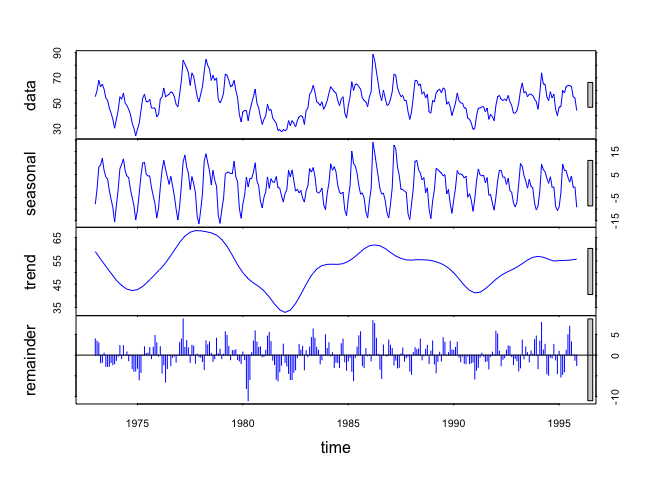
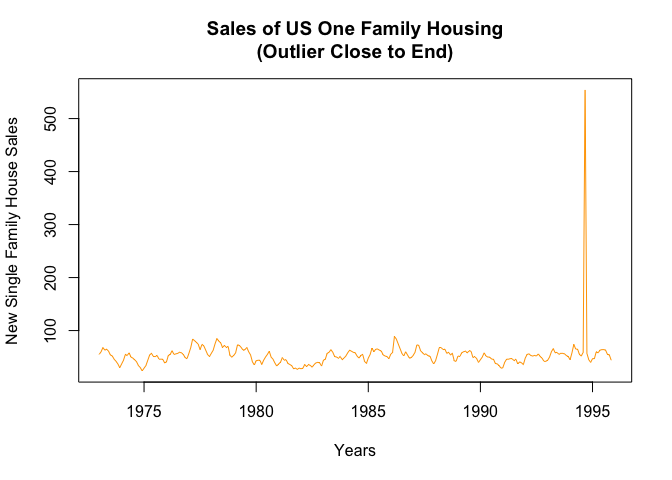
merge code

diff --git a/DoingDataScience/Unit 11 Assignment/Report.md b/DoingDataScience/Unit 11 Assignment/Report.md
@@ -9,7 +9,8 @@ Angela Horacek, James Gage, Trace Smith
 
 
 
-a.) Plot the time series. Can you identify seasonal fluctuations and/or a trend? 
+**a.) Plot the time series. Can you identify seasonal fluctuations and/or a trend?**
+- There appears to be a seasonality to the data. The data seem to be  oscillating up and down corresponding to the calender year.In addition, a trend in the form of a sinusodal wave appears with a trough approximately every 9 years. 
 
 
 ```r
@@ -20,7 +21,7 @@ plot(hsales, col="red", lwd=1.5, ylab = "Monthly Sales", xlab="Date",
 
 ![](Report_files/figure-html/unnamed-chunk-2-1.png)<!-- -->
 
-b.) Use a classical decomposition to calculate the trend-cycle and seasonal indices. 
+**b.) Use a classical decomposition to calculate the trend-cycle and seasonal indices.** 
 
 
 ```r
@@ -32,28 +33,41 @@ data <- decompose(hsales)
 
 ```r
 # Plot the estimated trend, seasonal, and irregular components
-plot(data, col="orange")
+plot(data, col="blue")
 ```
 
 ![](Report_files/figure-html/unnamed-chunk-4-1.png)<!-- -->
 
-c.) Do the results support the graphical interpretation from part (a)? 
+**c.) Do the results support the graphical interpretation from part (a)?**
 
+- The results from the decomposition graphics indicate there is not only a seasonal component but also a trend component bolstering the interpretation of the original graph.
 
-d) Compute and plot the seasonally adjusted data. 
+**d) Compute and plot the seasonally adjusted data.** 
+
+- Decompose a time series into seasonal, trend and irregular components using:
 
 
 ```r
-#Plot the seasonlly adjusted data:
-adj_sales <- seasadj(data)
-plot(adj_sales, col="blue", lwd=1.5, ylab = "Monthly Sales", xlab="Date",
-     main="Monthly Sales of \n 1-Family Houses in USA since 1973")
+#Returns seasonally adjusted data constructed by removing the seasonal component.
+fit <- stl(hsales, s.window=5)
+plot(fit, main="Seasonal Adjusted Data",col="blue")
 ```
 
 ![](Report_files/figure-html/unnamed-chunk-5-1.png)<!-- -->
 
-e) Change one observation to be an outlier (e.g., add 500 to one observation), and recompute the seasonally adjusted data. What is the effect of the outlier? 
+- Plot of hsales with the seasonal adjusted data (red line):
 
+```r
+plot(hsales, col="gray",lwd=2, main="Sales of US Single Family Housing\nwith Seasonal Adjusted Data (red line)", ylab="New Single Family House Sales", xlab="Years")
+
+lines(fit$time.series[,2],col="red",ylab="Trend",lwd=2.5)
+```
+
+![](Report_files/figure-html/unnamed-chunk-6-1.png)<!-- -->
+
+**e) Change one observation to be an outlier (e.g., add 500 to one observation), and recompute the seasonally adjusted data. What is the effect of the outlier?**
+
+- **Check this.....**
 
 ```r
 #add outlier to data
@@ -69,40 +83,52 @@ plot(hsales3,col="purple",lwd=1.5,
      xlab = "Time", ylab="Monthly Sales")
 ```
 
-![](Report_files/figure-html/unnamed-chunk-7-1.png)<!-- -->
+![](Report_files/figure-html/unnamed-chunk-8-1.png)<!-- -->
+
+- The outlier observation in the middle of the data increases the magnitude of the the seasonally adjusted data not only at that particular time but also on both sides of that time. Similarly, the trend line also peaks at that year pulling the trend curve up around that time distorting the sinusodial wave pattern.
+
+**f) Does it make any difference if the outlier is near the end rather than in the middle of the time series?**
+
+- F-1 Step 1: Create an outlier near the end: 
 
 
 ```r
-data3 <- decompose(hsales3)
-adj_sales3 <- seasadj(data3)
+hsales4 <- ts(c(hsales[1:260],hsales[261]+500, hsales[262:275]),start=c(1973,1),frequency=12)
 ```
 
-
-```r
-#Plot the seasonlly adjusted data with outlier:
-plot(adj_sales3, col="blue", lwd=1.5, ylab = "Monthly Sales", xlab="Date",
-     main="Monthly Sales of \n 1-Family Houses in USA since 1973")
-```
-
-![](Report_files/figure-html/unnamed-chunk-9-1.png)<!-- -->
-
-f) Does it make any difference if the outlier is near the end rather than in the middle of the time series? 
-
-g) Now use STL to decompose the series.
+- Plot the time series: 
 
 
 ```r
-#STL Decomposition
-fit <- stl(hsales,s.window = 5)
-plot(fit,col="blue")
+plot(hsales4, col="orange",main="Sales of US One Family Housing\n(Outlier Close to End)",
+ylab="New Single Family House Sales", xlab="Years")
 ```
 
 ![](Report_files/figure-html/unnamed-chunk-10-1.png)<!-- -->
 
+- The outlier observation near the end of the data increases the magnitude of the the seasonally adjusted data not only at that particular time but also on both sides of that time; This is the same effect of the outlier in the middle except at a different time. Similarly, the trend line also peaks at that year pulling the trend curve up around that time distorting the sinusodial wave pattern.
+
+
+**g) Now use STL to decompose the series.**
+
+- Step G-1: Plot Seasonal Adjusted Data with Outlier at End:
+
+
 ```r
-plot(hsales,col="green3",main="Seasonal and Trend \n Decomposition using Loess",
-      ylab="Monthly Sales",xlab="Time")
-lines(fit$time.series[,2],col="red",lwd=2,ylab="Trend")
+fit4 <- stl(hsales4, s.window=5)
+plot(fit4, col="blue",main="Seasonal Adjusted Data\n(Outlier Close to End)")
 ```
 
-![](Report_files/figure-html/unnamed-chunk-10-2.png)<!-- -->
+![](Report_files/figure-html/unnamed-chunk-11-1.png)<!-- -->
+
+- Plot of hsales3 with the seasonal adjusted data(purple line), fit3
+
+
+```r
+plot(hsales4, col="gray",lwd=2,main="Sales of US Single Family Housing(Outlier Clost to End)
+\nwith Seasonal Adjusted Data (purple line)",
+ylab="New Single Family House Sales", xlab="Years")
+lines(fit4$time.series[,2],col="purple",ylab="Trend",lwd=2.5)
+```
+
+![](Report_files/figure-html/unnamed-chunk-12-1.png)<!-- -->
